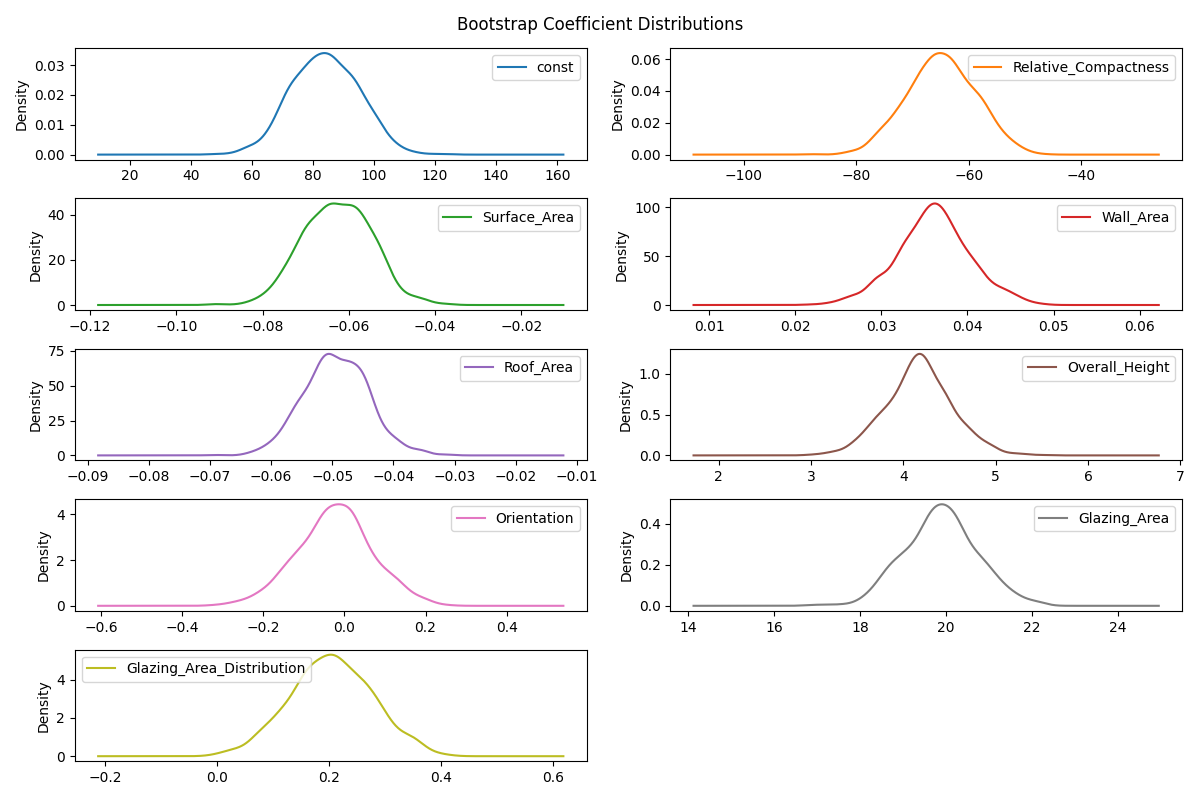
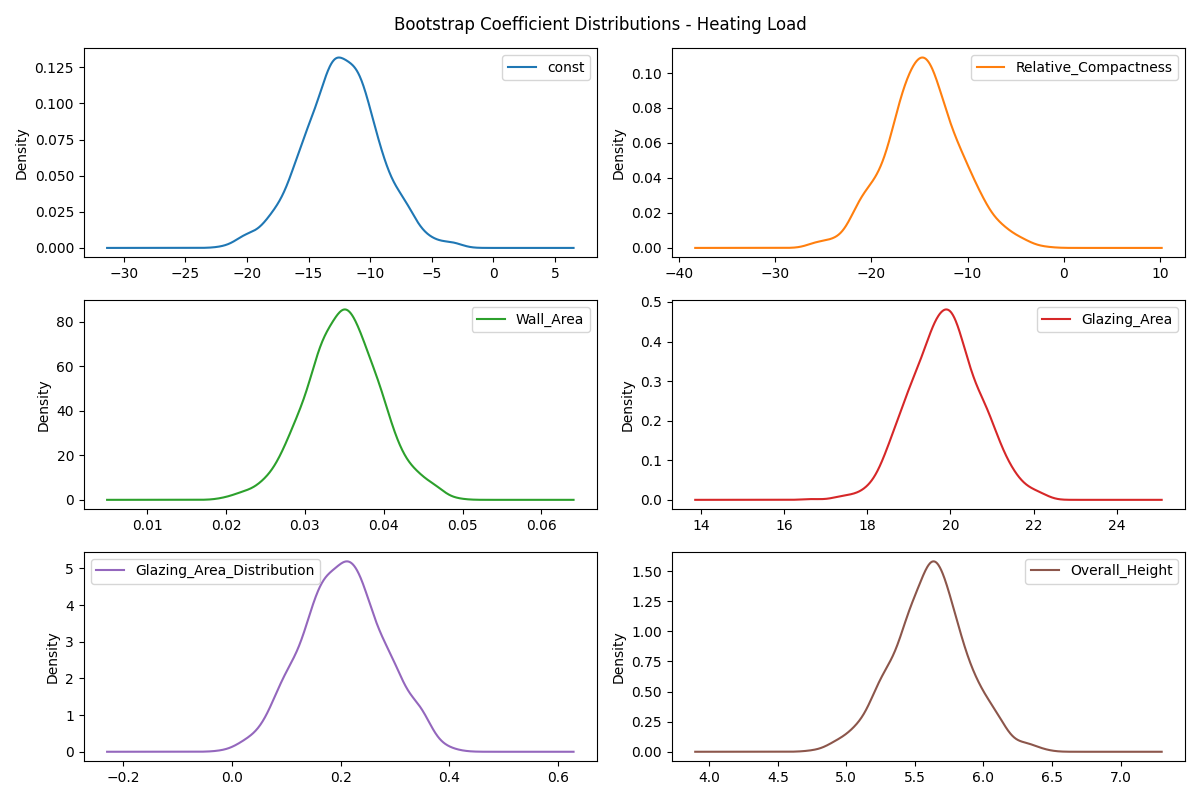
complete: Update energy analysis and logistic regression scripts, add new plots and data files

diff --git a/energy_analysis.py b/energy_analysis.py
@@ -1,46 +1,102 @@
-
 import pandas as pd
+import numpy as np
+import statsmodels.api as sm
+from sklearn.preprocessing import StandardScaler
+from sklearn.ensemble import RandomForestRegressor
+from sklearn.inspection import permutation_importance, PartialDependenceDisplay
+from sklearn.model_selection import train_test_split
 import matplotlib.pyplot as plt
 import seaborn as sns
-import numpy as np
 import os
-import statsmodels.api as sm
+from tqdm import tqdm
 
-# Ensure output directory exists
+# Ensure plots directory exists
 os.makedirs("plots", exist_ok=True)
 
 # Load dataset
-df = pd.read_csv('energy_efficiency_data.csv')
+df = pd.read_csv("energy_efficiency_data.csv")
 
-# Fit a model
-X = df.drop(columns=['Heating_Load', 'Cooling_Load'])
-y = df['Heating_Load']
-X = sm.add_constant(X)
-model = sm.OLS(y, X).fit()
+# Feature selection
+features = ['Relative_Compactness', 'Wall_Area', 'Glazing_Area', 'Glazing_Area_Distribution', 'Overall_Height']
+# features = ['Relative_Compactness', 'Surface_Area', 'Wall_Area', 'Roof_Area',
+            # 'Overall_Height', 'Orientation', 'Glazing_Area', 'Glazing_Area_Distribution']
+X = df[features]
+y_heat = df['Heating_Load']
+y_cool = df['Cooling_Load']
 
-# Residuals vs Fitted Plot
+# ==== Standardized Coefficients ====
+scaler = StandardScaler()
+X_scaled = pd.DataFrame(scaler.fit_transform(X), columns=features)
+y_heat_scaled = StandardScaler().fit_transform(y_heat.values.reshape(-1, 1)).flatten()
+y_cool_scaled = StandardScaler().fit_transform(y_cool.values.reshape(-1, 1)).flatten()
+
+X_scaled_const = sm.add_constant(X_scaled)
+model_heat = sm.OLS(y_heat_scaled, X_scaled_const).fit()
+model_cool = sm.OLS(y_cool_scaled, X_scaled_const).fit()
+
+print("🔹 Standardized Coefficients - Heating Load:\n", model_heat.params)
+print("\n🔹 Standardized Coefficients - Cooling Load:\n", model_cool.params)
+
+# ==== Permutation Importance ====
+X_train_h, X_test_h, y_train_h, y_test_h = train_test_split(X, y_heat, test_size=0.2, random_state=42)
+X_train_c, X_test_c, y_train_c, y_test_c = train_test_split(X, y_cool, test_size=0.2, random_state=42)
+
+rf_heat = RandomForestRegressor(n_estimators=100, random_state=42)
+rf_cool = RandomForestRegressor(n_estimators=100, random_state=42)
+rf_heat.fit(X_train_h, y_train_h)
+rf_cool.fit(X_train_c, y_train_c)
+
+perm_heat = permutation_importance(rf_heat, X_test_h, y_test_h, n_repeats=30, random_state=42)
+perm_cool = permutation_importance(rf_cool, X_test_c, y_test_c, n_repeats=30, random_state=42)
+
+# Plot permutation importance
+fig, axes = plt.subplots(1, 2, figsize=(14, 6))
+sns.barplot(x=perm_heat.importances_mean, y=X.columns, ax=axes[0])
+axes[0].set_title("Permutation Importance - Heating Load")
+sns.barplot(x=perm_cool.importances_mean, y=X.columns, ax=axes[1])
+axes[1].set_title("Permutation Importance - Cooling Load")
+plt.tight_layout()
+plt.savefig("plots/feature_importance_heating_cooling.png")
+plt.close()
+
+# ==== Partial Dependence Plots ====
+PartialDependenceDisplay.from_estimator(rf_heat, X, features)
+plt.suptitle("Partial Dependence - Heating Load")
+plt.tight_layout()
+plt.savefig("plots/pdp_heating.png")
+plt.close()
+
+PartialDependenceDisplay.from_estimator(rf_cool, X, features)
+plt.suptitle("Partial Dependence - Cooling Load")
+plt.tight_layout()
+plt.savefig("plots/pdp_cooling.png")
+plt.close()
+
+# ==== Residual Plot for Heating Load ====
+X_const = sm.add_constant(X)
+model = sm.OLS(y_heat, X_const).fit()
 residuals = model.resid
 fitted = model.fittedvalues
+
 sns.residplot(x=fitted, y=residuals, lowess=True, line_kws={'color': 'red'})
 plt.axhline(0, color='gray', linestyle='--')
 plt.xlabel("Fitted Values")
 plt.ylabel("Residuals")
-plt.title("Residuals vs Fitted")
+plt.title("Residuals vs Fitted - Heating Load")
 plt.tight_layout()
 plt.savefig("plots/residuals_vs_fitted.png")
 plt.close()
 
-# Histogram of Heating Load
-plt.hist(df['Heating_Load'], bins=30, color='skyblue', edgecolor='black')
-plt.title('Heating Load Distribution')
-plt.xlabel('Heating Load')
-plt.ylabel('Frequency')
+# ==== Histogram of Heating Load ====
+plt.hist(y_heat, bins=30, color='skyblue', edgecolor='black')
+plt.title("Heating Load Distribution")
+plt.xlabel("Heating Load")
+plt.ylabel("Frequency")
+plt.tight_layout()
 plt.savefig("plots/heating_load_histogram.png")
 plt.close()
 
-# Bootstrap coefficient density plots
-from tqdm import tqdm
-
+# ==== Bootstrap Coefficient Density ====
 def bootstrap_coefficients(X, y, n_iter=1000):
     np.random.seed(42)
     coefs = []
@@ -52,11 +108,12 @@ def bootstrap_coefficients(X, y, n_iter=1000):
         coefs.append(m.params.values)
     return pd.DataFrame(coefs, columns=X.columns)
 
-coef_df = bootstrap_coefficients(X, y)
+coef_df = bootstrap_coefficients(X_const, y_heat)
 
-# Plotting density
-coef_df.plot(kind='density', subplots=True, layout=(int(np.ceil(len(coef_df.columns)/2)), 2), figsize=(12, 8), sharex=False)
-plt.suptitle("Bootstrap Coefficient Distributions")
+coef_df.plot(kind='density', subplots=True,
+             layout=(int(np.ceil(len(coef_df.columns) / 2)), 2),
+             figsize=(12, 8), sharex=False)
+plt.suptitle("Bootstrap Coefficient Distributions - Heating Load")
 plt.tight_layout()
 plt.savefig("plots/bootstrap_coeff_densities.png")
 plt.close()

diff --git a/logistic_regression_regularized.py b/logistic_regression_regularized.py
@@ -1,68 +1,28 @@
-
-# import pandas as pd
-# import numpy as np
-# import statsmodels.api as sm
-# from sklearn.preprocessing import StandardScaler
-
-# # Load dataset
-# df = pd.read_csv('energy_efficiency_data.csv')
-
-# # Step 1: Binarize Heating_Load using the 75th percentile
-# threshold = df['Heating_Load'].median() #.quantile(0.75)
-# df['High_Heating'] = (df['Heating_Load'] > threshold).astype(int)
-
-# # Step 2: Select predictors and standardize them
-# predictors = ['Relative_Compactness', 'Wall_Area', 'Overall_Height', 'Glazing_Area', 'Glazing_Area_Distribution']
-# scaler = StandardScaler()
-# X_scaled = pd.DataFrame(scaler.fit_transform(df[predictors]), columns=predictors)
-
-# # Add constant
-# X_scaled = sm.add_constant(X_scaled)
-# y = df['High_Heating']
-
-# # Step 3: Fit regularized logistic regression
-# logit_model = sm.Logit(y, X_scaled).fit_regularized(method='l2', maxiter=100, disp=True)
-# print("\nRegularized Logistic Regression Summary:")
-# print(logit_model.summary())
-
-# # Step 4: Compute odds ratios and confidence intervals (approximate)
-# params = logit_model.params
-# odds_ratios = pd.DataFrame({
-#     'Feature': X_scaled.columns,
-#     'Odds Ratio': np.exp(params)
-# })
-# print("\nOdds Ratios (approximate):")
-# print(odds_ratios)
-
-# # Save to file
-# odds_ratios.to_csv('logistic_regularized_odds_ratios.csv', index=False)
-import pandas as pd
-import numpy as np
-import statsmodels.api as sm
+from sklearn.linear_model import LogisticRegression
 from sklearn.preprocessing import StandardScaler
+from sklearn.model_selection import train_test_split
+import pandas as pd
 
-# Load data
+# Load and preprocess
 df = pd.read_csv("energy_efficiency_data.csv")
+threshold = df['Heating_Load'].quantile(0.25)
+df['Low_Heating'] = (df['Heating_Load'] < threshold).astype(int)
 
-# Binarize Heating_Load using 75th percentile
-threshold = df['Heating_Load'].quantile(0.75)
-df['High_Heating'] = (df['Heating_Load'] > threshold).astype(int)
+predictors = ['Relative_Compactness', 'Wall_Area', 'Glazing_Area', 'Glazing_Area_Distribution', 'Overall_Height']
+X = df[predictors]
+y = df['Low_Heating']
 
-# Select predictors and scale them
-predictors = ['Relative_Compactness', 'Wall_Area', 'Glazing_Area', 'Glazing_Area_Distribution']  # drop unstable ones
 scaler = StandardScaler()
-X_scaled = pd.DataFrame(scaler.fit_transform(df[predictors]), columns=predictors)
-X_scaled = sm.add_constant(X_scaled)
-y = df['High_Heating']
+X_scaled = scaler.fit_transform(X)
 
-# Fit model with statsmodels (MLE gives SEs and p-values)
-model = sm.Logit(y, X_scaled).fit()
-print(model.summary())
+# Fit regularized logistic regression
+clf = LogisticRegression(penalty='l2', solver='lbfgs', max_iter=1000)
+clf.fit(X_scaled, y)
 
-# Odds ratios and CI
-params = model.params
-conf = model.conf_int()
-conf['OR'] = np.exp(params)
-conf.columns = ['2.5%', '97.5%', 'Odds Ratio']
-print("\nOdds Ratios and 95% CI:")
-print(np.exp(conf))
+# Coefficients and odds ratios
+import numpy as np
+odds_ratios = np.exp(clf.coef_[0])
+
+for feature, coef, or_ in zip(predictors, clf.coef_[0], odds_ratios):
+    print(f"{feature:30s} Coef: {coef: .4f}  |  Odds Ratio: {or_: .4f}")
+

diff --git a/trade-off.py b/trade-off.py
@@ -1,0 +1,98 @@
+import matplotlib.pyplot as plt
+import pandas as pd
+import numpy as np
+
+# Load data
+df = pd.read_csv("energy_efficiency_data.csv")
+features = ['Relative_Compactness', 'Wall_Area', 'Glazing_Area', 'Glazing_Area_Distribution', 'Overall_Height']
+
+
+# Step 1: Scatter plot of Heating vs Cooling
+plt.figure(figsize=(8, 6))
+plt.scatter(df['Heating_Load'], df['Cooling_Load'], alpha=0.6)
+plt.xlabel("Heating Load")
+plt.ylabel("Cooling Load")
+plt.title("Trade-off Between Heating and Cooling Load")
+plt.grid(True)
+plt.tight_layout()
+plt.savefig("plots/tradeoff_heating_vs_cooling.png")
+plt.show()
+
+# Step 2: Identify Pareto-efficient points
+def is_pareto_efficient(costs):
+    is_efficient = np.ones(costs.shape[0], dtype=bool)
+    for i, c in enumerate(costs):
+        if is_efficient[i]:
+            is_efficient[is_efficient] = np.any(costs[is_efficient] < c, axis=1)
+            is_efficient[i] = True  # Keep self
+    return is_efficient
+
+costs = df[['Heating_Load', 'Cooling_Load']].values
+pareto_mask = is_pareto_efficient(costs)
+
+# Plot Pareto front
+plt.figure(figsize=(8, 6))
+plt.scatter(df['Heating_Load'], df['Cooling_Load'], alpha=0.3, label='All Designs')
+plt.scatter(df['Heating_Load'][pareto_mask], df['Cooling_Load'][pareto_mask],
+            color='red', label='Pareto-efficient', s=60)
+plt.xlabel("Heating Load")
+plt.ylabel("Cooling Load")
+plt.title("Pareto Front - Energy Load Trade-offs")
+plt.legend()
+plt.grid(True)
+plt.tight_layout()
+plt.savefig("plots/pareto_front_heating_cooling.png")
+plt.show()
+
+# Add Pareto mask to dataframe
+df['Pareto'] = pareto_mask
+
+# Plot comparison for each feature
+import seaborn as sns
+import matplotlib.pyplot as plt
+
+# Determine layout (2 columns, adjust rows automatically)
+n_features = len(features)
+n_cols = 2
+n_rows = int(np.ceil(n_features / n_cols))
+
+# Create subplots
+fig, axes = plt.subplots(n_rows, n_cols, figsize=(12, n_rows * 4))
+axes = axes.flatten()  # Flatten in case it's 2D array
+
+# Plot each feature
+for i, feature in enumerate(features):
+    sns.boxplot(x='Pareto', y=feature, data=df, ax=axes[i])
+    axes[i].set_title(f"{feature} Distribution")
+    axes[i].set_xlabel("Pareto Efficient (True = Red Dot)")
+    axes[i].set_ylabel(feature)
+
+# Hide any empty subplots
+for j in range(i+1, len(axes)):
+    fig.delaxes(axes[j])
+
+plt.tight_layout()
+plt.savefig("plots/pareto_boxplot_all_features.png")
+plt.show()
+
+# Step 7: Summarize Best Feature Value Ranges for Trade-off
+pareto_df = df[df['Pareto'] == True]
+summary = pareto_df[features].describe().T[['min', '25%', '50%', '75%', 'max']]
+summary = summary.rename(columns={
+    'min': 'Min',
+    '25%': 'Q1 (25%)',
+    '50%': 'Median',
+    '75%': 'Q3 (75%)',
+    'max': 'Max'
+})
+
+# Round for clarity
+summary = summary.round(3)
+
+# Print summary to console
+print("\nBest Feature Value Ranges (Pareto-efficient designs):\n")
+print(summary)
+
+# Save to CSV for documentation
+summary.to_csv("pareto_feature_ranges.csv")
+
